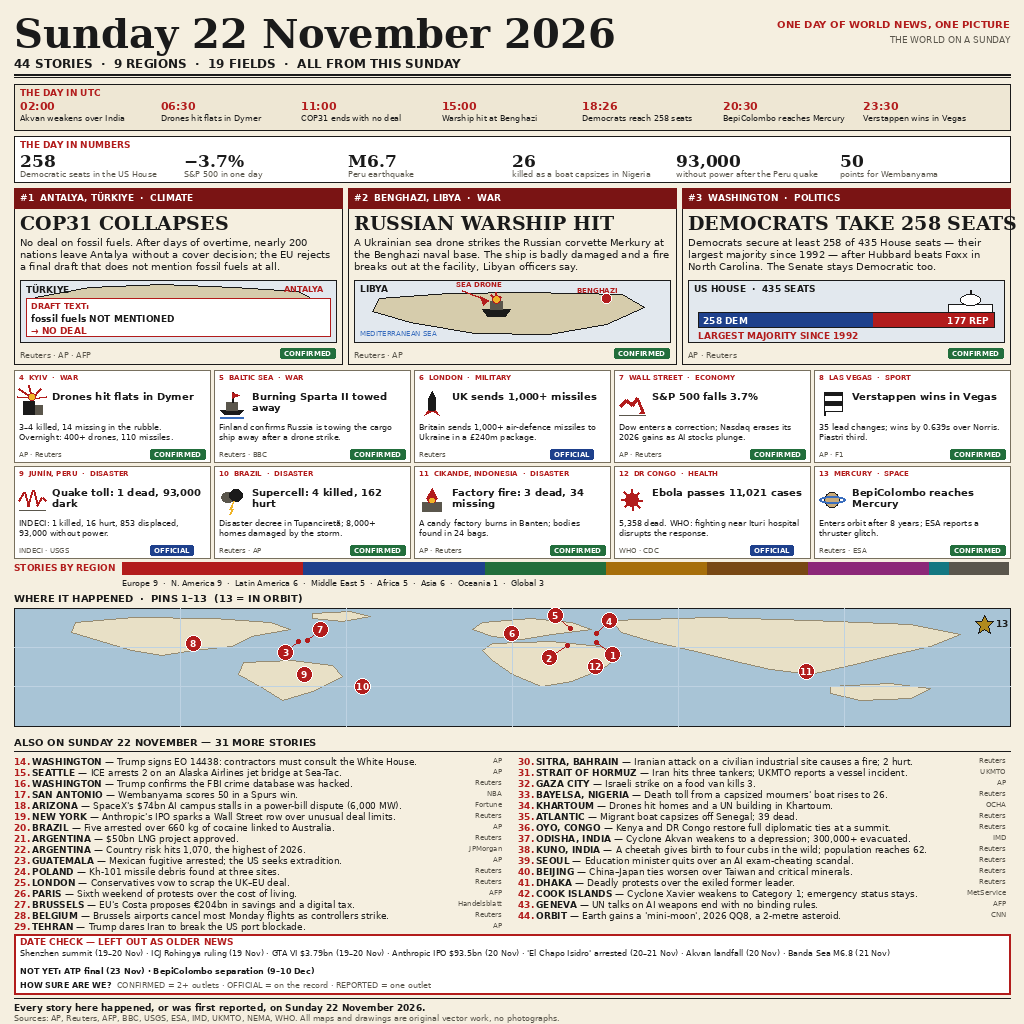
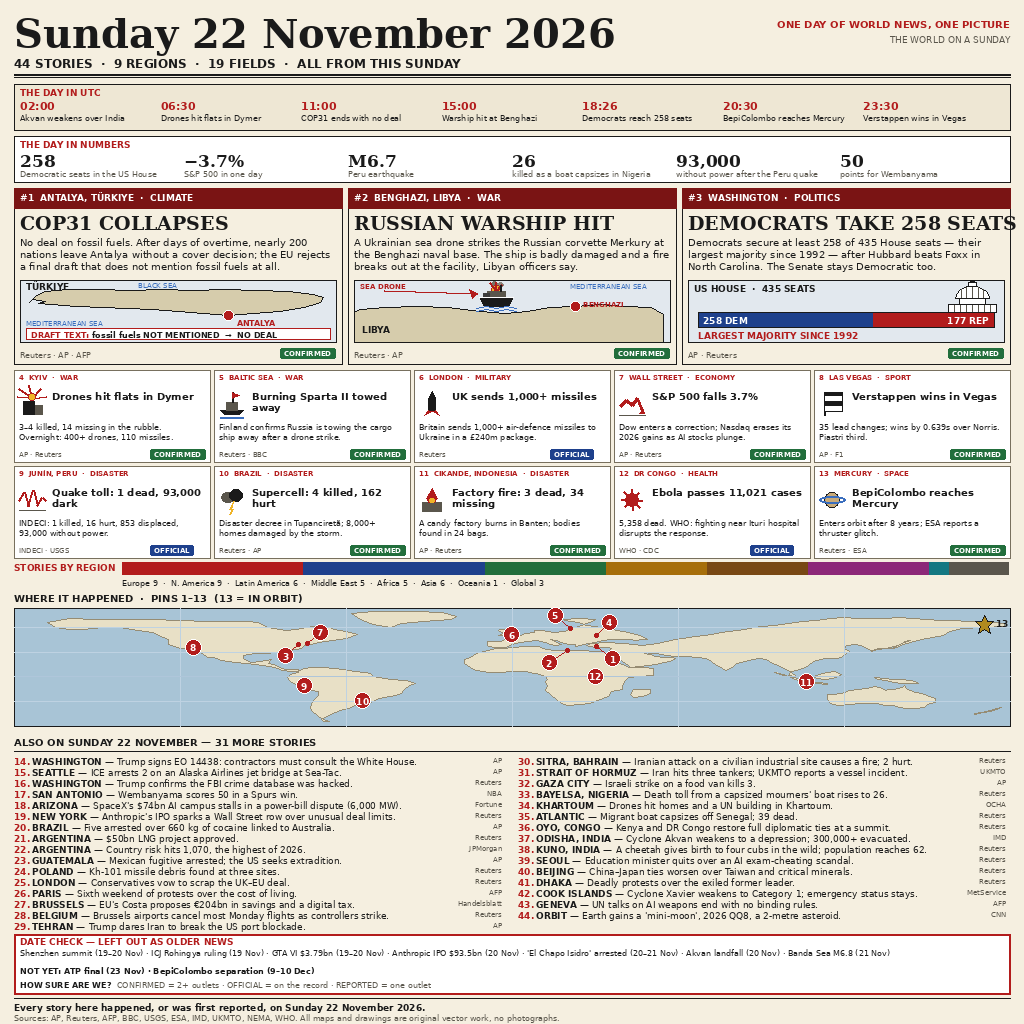
Fix maps + lead illustrations: detailed world map (real coastlines, lat/lon), Turkiye with Black/Med Sea labels + visible Antalya pin + 1-line draft box, Libya with big burning ship offshore + SEA DRONE arrow, bigger detailed Capitol dome

diff --git a/build-image.py b/build-image.py
@@ -304,54 +304,156 @@ def icon(draw, kind, cx, cy, s, col=INK):
 
 
 # ---------------------------------------------------------------- maps
-def latlon_to_xy(lat, lon, x0, y0, w, h):
+# World map: continents as (lon, lat) coastlines, drawn with an
+# equirectangular projection cropped to lat 84..-60 so the strip reads
+# larger. Pins use the same projection, so they land on the land.
+LAT_TOP, LAT_BOT = 84.0, -60.0
+
+
+def world_xy(lat, lon, x0, y0, w, h):
     x = x0 + (lon + 180.0) / 360.0 * w
-    y = y0 + (90.0 - lat) / 180.0 * h
+    y = y0 + (LAT_TOP - lat) / (LAT_TOP - LAT_BOT) * h
     return x, y
 
 
-CONTINENTS = [
-    # North America
-    [(62, 62), (120, 42), (200, 46), (258, 62), (278, 92), (238, 122),
-     (218, 162), (180, 182), (148, 202), (118, 182), (88, 142), (58, 102)],
-    # Greenland
-    [(300, 22), (338, 16), (358, 36), (330, 56), (300, 46)],
-    # South America
-    [(230, 232), (280, 222), (320, 242), (330, 292), (300, 352),
-     (270, 392), (250, 342), (225, 282)],
-    # Europe
-    [(470, 62), (520, 46), (560, 62), (580, 92), (540, 112),
-     (510, 132), (480, 122), (460, 92)],
-    # Africa
-    [(480, 152), (540, 142), (590, 162), (610, 202), (590, 262),
-     (560, 312), (530, 332), (500, 282), (480, 222), (470, 182)],
-    # Asia
-    [(600, 52), (700, 42), (800, 52), (900, 72), (950, 112), (920, 162),
-     (880, 202), (840, 242), (800, 282), (760, 262), (720, 222),
-     (680, 182), (640, 142), (610, 102)],
-    # Australia
-    [(820, 332), (880, 322), (920, 342), (900, 382), (850, 392), (820, 362)],
+# (lon, lat) coastline points, clockwise. Simplified real coastlines —
+# enough points to read as the actual continents at this scale.
+NORTH_AMERICA = [
+    (-168, 66), (-160, 71), (-150, 70), (-140, 70), (-130, 70), (-120, 69),
+    (-110, 68), (-100, 68), (-95, 68), (-92, 66), (-88, 60), (-82, 56),
+    (-78, 58), (-72, 62), (-66, 60), (-64, 58), (-60, 55), (-56, 52),
+    (-60, 47), (-65, 44), (-70, 42), (-73, 40), (-75, 38), (-76, 35),
+    (-80, 32), (-81, 28), (-80, 25), (-82, 28), (-85, 30), (-89, 29),
+    (-93, 29), (-97, 26), (-97, 22), (-94, 18), (-91, 19), (-87, 21),
+    (-88, 16), (-86, 15), (-84, 12), (-82, 9), (-80, 9), (-77, 9),
+    (-77, 7), (-80, 7), (-83, 8), (-86, 12), (-90, 14), (-93, 15),
+    (-96, 16), (-100, 17), (-105, 20), (-108, 23), (-110, 23), (-112, 28),
+    (-114, 31), (-117, 33), (-120, 34), (-122, 37), (-124, 40), (-124, 46),
+    (-127, 49), (-130, 54), (-135, 57), (-142, 60), (-148, 60), (-155, 58),
+    (-160, 58), (-165, 60),
+]
+GREENLAND = [
+    (-44, 60), (-40, 65), (-32, 68), (-22, 70), (-20, 74), (-25, 78),
+    (-35, 80), (-50, 80), (-58, 77), (-56, 72), (-53, 68), (-50, 64),
+]
+SOUTH_AMERICA = [
+    (-77, 7), (-75, 10), (-72, 12), (-68, 11), (-64, 10), (-61, 9),
+    (-57, 6), (-53, 5), (-51, 4), (-50, 0), (-44, -3), (-38, -5),
+    (-35, -8), (-37, -11), (-39, -15), (-40, -20), (-42, -23), (-46, -25),
+    (-48, -27), (-52, -32), (-57, -35), (-58, -38), (-62, -41), (-65, -45),
+    (-67, -49), (-69, -52), (-68, -55), (-66, -55), (-68, -52), (-70, -48),
+    (-72, -42), (-73, -37), (-72, -30), (-70, -23), (-70, -18), (-75, -15),
+    (-77, -12), (-80, -6), (-81, -1), (-80, 3), (-77, 5),
+]
+EUROPE = [
+    (18, 70), (25, 71), (30, 70), (28, 66), (24, 62), (21, 59), (19, 55),
+    (15, 54), (11, 57), (8, 57), (8, 54), (5, 53), (3, 51), (0, 50),
+    (-2, 49), (-2, 47), (-4, 43), (-9, 43), (-9, 38), (-8, 37), (-6, 36),
+    (-2, 36), (0, 39), (3, 42), (6, 43), (9, 44), (12, 42), (14, 40),
+    (16, 38), (18, 40), (16, 42), (14, 45), (16, 44), (18, 42), (19, 41),
+    (21, 40), (23, 39), (23, 37), (25, 38), (26, 40), (28, 41), (30, 42),
+    (33, 44), (36, 45), (39, 46), (41, 46), (43, 45), (45, 44), (47, 45),
+    (49, 46), (48, 48), (46, 51), (42, 54), (38, 57), (34, 59), (30, 61),
+    (27, 63), (24, 66), (21, 68),
+]
+BRITAIN = [
+    (-5, 50), (-3, 53), (-5, 56), (-4, 58), (-2, 58), (0, 57), (0, 53),
+    (1, 51), (-2, 50),
+]
+AFRICA = [
+    (-6, 35), (-9, 32), (-13, 28), (-15, 24), (-17, 21), (-17, 16),
+    (-15, 11), (-13, 8), (-8, 5), (-4, 5), (0, 6), (5, 6), (8, 4),
+    (9, 4), (12, 0), (13, -3), (12, -6), (13, -12), (12, -17), (14, -22),
+    (16, -28), (18, -32), (20, -35), (25, -34), (28, -32), (32, -28),
+    (35, -24), (36, -18), (40, -15), (40, -10), (41, -5), (42, -1),
+    (46, 0), (51, 2), (51, 10), (48, 11), (44, 11), (42, 12), (40, 15),
+    (38, 18), (36, 22), (35, 27), (34, 28), (32, 31), (30, 31), (25, 32),
+    (20, 32), (15, 32), (11, 34), (10, 37), (5, 37), (0, 36), (-3, 35),
+]
+MADAGASCAR = [
+    (44, -16), (47, -15), (50, -16), (50, -20), (47, -24), (44, -25),
+    (43, -21),
+]
+ASIA = [
+    (28, 41), (30, 41), (33, 42), (36, 42), (39, 41), (41, 41), (44, 39),
+    (47, 38), (50, 39), (53, 41), (56, 43), (59, 45), (62, 47), (66, 49),
+    (70, 51), (74, 53), (78, 55), (82, 57), (86, 59), (90, 61), (95, 63),
+    (100, 65), (105, 67), (110, 69), (115, 71), (120, 72), (125, 71),
+    (130, 71), (135, 71), (140, 72), (145, 71), (150, 70), (155, 69),
+    (160, 69), (165, 68), (170, 67), (178, 65), (178, 62), (170, 60),
+    (163, 59), (158, 55), (156, 51), (152, 48), (148, 45), (144, 42),
+    (141, 40), (138, 37), (135, 34), (132, 33), (130, 32), (128, 35),
+    (127, 37), (126, 38), (124, 40), (121, 38), (120, 35), (122, 31),
+    (121, 28), (119, 24), (117, 22), (113, 22), (109, 19), (106, 12),
+    (104, 9), (101, 6), (100, 2), (103, 1), (101, 5), (99, 9), (97, 13),
+    (94, 16), (92, 21), (89, 22), (87, 21), (84, 19), (81, 16), (80, 13),
+    (78, 9), (77, 8), (76, 10), (74, 14), (72, 19), (70, 22), (67, 24),
+    (63, 25), (59, 25), (56, 26), (54, 27), (52, 28), (50, 29), (48, 30),
+    (48, 29), (50, 27), (52, 25), (55, 24), (58, 23), (59, 22), (57, 19),
+    (55, 17), (52, 15), (49, 14), (46, 13), (43, 12), (42, 14), (40, 19),
+    (39, 23), (38, 27), (36, 29), (35, 31), (36, 34), (35, 36), (33, 36),
+    (30, 36), (28, 37), (27, 38), (28, 40),
+]
+JAPAN = [
+    (130, 31), (132, 33), (134, 34), (136, 34), (138, 35), (140, 37),
+    (141, 39), (141, 41), (142, 43), (144, 44), (142, 42), (140, 39),
+    (139, 37), (137, 35), (135, 34), (133, 34), (131, 33),
+]
+SUMATRA = [
+    (95, 5), (98, 3), (100, 1), (102, -1), (104, -3), (106, -6),
+    (104, -5), (102, -3), (100, 0), (98, 2),
+]
+JAVA = [
+    (105, -6), (108, -7), (111, -7), (114, -8), (114, -9), (110, -8),
+    (107, -7),
+]
+BORNEO = [
+    (109, 1), (111, 3), (114, 5), (117, 6), (119, 3), (118, 0), (116, -2),
+    (113, -3), (110, -2),
+]
+NEW_GUINEA = [
+    (131, -1), (135, -2), (138, -3), (141, -3), (144, -5), (146, -6),
+    (147, -8), (144, -8), (141, -8), (138, -7), (135, -5), (132, -3),
+]
+AUSTRALIA = [
+    (114, -22), (114, -28), (115, -33), (118, -35), (122, -34), (126, -32),
+    (129, -32), (132, -32), (135, -35), (138, -35), (140, -38), (143, -39),
+    (146, -39), (149, -37), (150, -34), (153, -31), (153, -27), (151, -24),
+    (148, -20), (146, -19), (143, -16), (142, -11), (141, -13), (138, -15),
+    (136, -15), (135, -17), (133, -13), (131, -12), (128, -14), (125, -15),
+    (122, -17), (119, -20), (116, -21),
+]
+NEW_ZEALAND = [
+    (167, -45), (170, -43), (173, -41), (175, -39), (177, -38), (175, -40),
+    (173, -42), (170, -44), (167, -46),
+]
+WORLD_POLYS = [
+    NORTH_AMERICA, GREENLAND, SOUTH_AMERICA, EUROPE, BRITAIN, AFRICA,
+    MADAGASCAR, ASIA, JAPAN, SUMATRA, JAVA, BORNEO, NEW_GUINEA, AUSTRALIA,
+    NEW_ZEALAND,
 ]
 
 
 def draw_world_map(draw, x0, y0, w, h):
     draw.rectangle([x0, y0, x0 + w, y0 + h], fill=SEA, outline=INK, width=1)
-    for poly in CONTINENTS:
-        pts = [(x0 + px / 1000.0 * w, y0 + py / 500.0 * h) for px, py in poly]
+    for poly in WORLD_POLYS:
+        pts = [world_xy(lat, lon, x0, y0, w, h) for lon, lat in poly]
         draw.polygon(pts, fill=LAND, outline=(150, 140, 115))
-    # graticule
-    for gx in range(1, 6):
-        x = x0 + gx * w / 6.0
+    # graticule: every 60 deg lon, lat 60/30/-30; equator slightly stronger
+    for lon in (-120, -60, 0, 60, 120):
+        x = x0 + (lon + 180.0) / 360.0 * w
         draw.line([(x, y0), (x, y0 + h)], fill=(190, 210, 226), width=1)
-    for gy in range(1, 3):
-        y = y0 + gy * h / 3.0
-        draw.line([(x0, y), (x0 + w, y)], fill=(190, 210, 226), width=1)
+    for lat in (60, 30, -30):
+        _, yy = world_xy(lat, 0, x0, y0, w, h)
+        draw.line([(x0, yy), (x0 + w, yy)], fill=(190, 210, 226), width=1)
+    _, eq = world_xy(0, 0, x0, y0, w, h)
+    draw.line([(x0, eq), (x0 + w, eq)], fill=(175, 198, 218), width=1)
     # pins 1-12
     f = font(SANSB, 9)
     for num, (lat, lon) in sorted(PINS.items()):
         if lat is None:
             continue
-        px, py = latlon_to_xy(lat, lon, x0, y0, w, h)
+        px, py = world_xy(lat, lon, x0, y0, w, h)
         dx, dy = PIN_OFFSETS.get(num, (0, 0))
         if (dx, dy) != (0, 0):
             draw.line([(px, py), (px + dx, py + dy)], fill=RED, width=1)
@@ -371,54 +473,80 @@ def draw_world_map(draw, x0, y0, w, h):
 
 
 def draw_turkiye(draw, x0, y0, w, h):
-    """Stylised Türkiye with Antalya pin and the draft-text box."""
+    """Türkiye with a readable coastline: Black Sea north, Mediterranean
+    south with the Antalya bay, Aegean notches west. The draft-text box is
+    a single line at the bottom so the map (and the Antalya pin) stay
+    visible. Everything stays inside (x0, y0, w, h)."""
     draw.rectangle([x0, y0, x0 + w, y0 + h], fill=(226, 232, 238), outline=INK, width=1)
-    poly = [(0.05, 0.28), (0.22, 0.12), (0.45, 0.08), (0.68, 0.12), (0.88, 0.18),
-            (0.95, 0.38), (0.86, 0.55), (0.68, 0.68), (0.48, 0.72), (0.28, 0.66),
-            (0.12, 0.58), (0.04, 0.42)]
+    poly = [(0.03, 0.36), (0.05, 0.26), (0.08, 0.19), (0.15, 0.16),
+            (0.25, 0.15), (0.35, 0.17), (0.45, 0.15), (0.55, 0.17),
+            (0.65, 0.15), (0.75, 0.17), (0.85, 0.19), (0.93, 0.23),
+            (0.96, 0.29), (0.95, 0.36), (0.90, 0.44), (0.82, 0.50),
+            (0.74, 0.54), (0.66, 0.58), (0.58, 0.54), (0.50, 0.50),
+            (0.42, 0.48), (0.34, 0.46), (0.26, 0.44), (0.18, 0.42),
+            (0.10, 0.40), (0.06, 0.38), (0.08, 0.34), (0.04, 0.32)]
     pts = [(x0 + px * w, y0 + py * h) for px, py in poly]
     draw.polygon(pts, fill=LAND2, outline=INK)
-    draw.text((x0 + 6, y0 + 4), "TÜRKIYE", font=font(SANSB, 9), fill=INK)
-    draw.text((x0 + w - 52, y0 + 4), "ANTALYA", font=font(SANSB, 8), fill=RED)
-    # Antalya pin on the south coast
-    ax, ay = x0 + 0.38 * w, y0 + 0.66 * h
-    draw.ellipse([ax - 6, ay - 6, ax + 6, ay + 6], fill=RED, outline=(255, 255, 255), width=1)
-    # sea label
-    draw.text((x0 + 8, y0 + h - 16), "MEDITERRANEAN SEA", font=font(SANS, 7), fill=BLUE2)
-    # draft-text box
-    bx, by = x0 + 6, y0 + h - 44
-    draw.rectangle([bx, by, x0 + w - 6, y0 + h - 6], fill=(255, 255, 255), outline=RED, width=1)
-    draw.text((bx + 5, by + 3), "DRAFT TEXT:", font=font(SANSB, 8), fill=RED)
-    draw.text((bx + 5, by + 15), "fossil fuels NOT MENTIONED", font=font(SANSB, 9), fill=INK)
-    draw.text((bx + 5, by + 27), "→ NO DEAL", font=font(SANSB, 9), fill=RED)
+    draw.text((x0 + 6, y0 + 1), "TÜRKIYE", font=font(SANSB, 9), fill=INK)
+    draw.text((x0 + 118, y0 + 1), "BLACK SEA", font=font(SANS, 7), fill=BLUE2)
+    # Antalya pin on the south coast, at the bay dip
+    ax, ay = x0 + 0.66 * w, y0 + 0.58 * h
+    draw.ellipse([ax - 5, ay - 5, ax + 5, ay + 5], fill=RED, outline=(255, 255, 255), width=1)
+    draw.text((ax + 8, y0 + 38), "ANTALYA", font=font(SANSB, 8), fill=RED)
+    draw.text((x0 + 6, y0 + 39), "MEDITERRANEAN SEA", font=font(SANS, 7), fill=BLUE2)
+    # draft-text box: one line, bottom
+    bx, by = x0 + 6, y0 + h - 14
+    draw.rectangle([bx, by, x0 + w - 6, y0 + h - 3], fill=(255, 255, 255), outline=RED, width=1)
+    draw.text((bx + 5, by + 2), "DRAFT TEXT: ", font=font(SANSB, 8), fill=RED)
+    tx = bx + 5 + draw.textlength("DRAFT TEXT: ", font=font(SANSB, 8))
+    draw.text((tx, by + 2), "fossil fuels NOT MENTIONED  →  NO DEAL",
+              font=font(SANSB, 8), fill=INK)
 
 
 def draw_libya(draw, x0, y0, w, h):
-    """Stylised Libya / Mediterranean with burning ship and arrow.
-    Everything stays inside the box (x0, y0, w, h)."""
+    """Libya / Mediterranean: sea on top, land below with the Gulf of
+    Sidra dip, a BIG burning warship offshore in the sea, red SEA DRONE
+    arrow, Benghazi pin on the north-east coast. Everything stays inside
+    the box (x0, y0, w, h)."""
     draw.rectangle([x0, y0, x0 + w, y0 + h], fill=(226, 232, 238), outline=INK, width=1)
-    poly = [(0.08, 0.30), (0.30, 0.22), (0.55, 0.20), (0.85, 0.24), (0.92, 0.45),
-            (0.80, 0.72), (0.62, 0.88), (0.38, 0.86), (0.18, 0.68), (0.06, 0.50)]
+    # land: north coast with the Sidra gulf dip, extends past the bottom
+    poly = [(0.02, 0.48), (0.10, 0.44), (0.20, 0.42), (0.30, 0.44),
+            (0.40, 0.50), (0.48, 0.54), (0.55, 0.50), (0.62, 0.45),
+            (0.70, 0.42), (0.78, 0.40), (0.86, 0.42), (0.94, 0.44),
+            (0.98, 0.55), (0.98, 1.0), (0.0, 1.0), (0.0, 0.52)]
     pts = [(x0 + px * w, y0 + py * h) for px, py in poly]
     draw.polygon(pts, fill=LAND2, outline=INK)
-    draw.text((x0 + 6, y0 + 3), "LIBYA", font=font(SANSB, 9), fill=INK)
-    draw.text((x0 + 6, y0 + h - 13), "MEDITERRANEAN SEA", font=font(SANS, 7), fill=BLUE2)
-    # Benghazi pin, north-east coast
-    bx, by = x0 + 0.80 * w, y0 + 0.30 * h
+    draw.text((x0 + 6, y0 + 2), "SEA DRONE", font=font(SANSB, 7), fill=RED)
+    draw.text((x0 + w - 100, y0 + 2), "MEDITERRANEAN SEA", font=font(SANS, 7), fill=BLUE2)
+    draw.text((x0 + 8, y0 + 44), "LIBYA", font=font(SANSB, 9), fill=INK)
+    # Benghazi pin on the north-east coast
+    bx, by = x0 + 0.70 * w, y0 + 0.42 * h
     draw.ellipse([bx - 5, by - 5, bx + 5, by + 5], fill=RED, outline=(255, 255, 255), width=1)
-    draw.text((bx - 30, by - 13), "BENGHAZI", font=font(SANSB, 7), fill=RED)
-    # burning ship offshore, upper middle of the box
-    sx, sy = x0 + 0.45 * w, y0 + 0.42 * h
-    draw.polygon([(sx - 14, sy + 3), (sx + 14, sy + 3), (sx + 9, sy + 10), (sx - 9, sy + 10)],
-                 fill=INK)
-    draw.rectangle([sx - 6, sy - 5, sx + 6, sy + 3], fill=GREY)
-    for dx, dy in [(-5, -11), (0, -14), (5, -10)]:
-        draw.line([(sx, sy - 5), (sx + dx, sy + dy)], fill=RED, width=2)
-    draw.ellipse([sx - 4, sy - 11, sx + 4, sy - 3], fill=(240, 180, 40), outline=RED)
-    # red arrow: drone path to the ship, inside the box
-    draw.line([(sx - 34, sy - 16), (sx - 8, sy - 6)], fill=RED, width=2)
-    draw.polygon([(sx - 8, sy - 6), (sx - 16, sy - 10), (sx - 13, sy - 1)], fill=RED)
-    draw.text((sx - 40, sy - 26), "SEA DRONE", font=font(SANSB, 7), fill=RED)
+    draw.text((bx + 8, y0 + 20), "BENGHAZI", font=font(SANSB, 7), fill=RED)
+    # BIG burning warship offshore, in the sea above the coast
+    sx, sy = x0 + 0.45 * w, y0 + 20
+    # smoke puffs above the fire
+    draw.ellipse([sx - 5, sy - 19, sx + 1, sy - 14], fill=(120, 115, 105))
+    draw.ellipse([sx + 1, sy - 18, sx + 7, sy - 13], fill=(140, 135, 125))
+    # fire: orange core + red flame lines
+    draw.ellipse([sx - 5, sy - 15, sx + 5, sy - 7], fill=(240, 180, 40), outline=RED)
+    for dx, dy in [(-6, -17), (0, -18), (6, -16)]:
+        draw.line([(sx, sy - 9), (sx + dx, sy + dy)], fill=RED, width=2)
+    # superstructure + funnel + mast
+    draw.rectangle([sx - 9, sy - 9, sx + 9, sy - 3], fill=GREY)
+    draw.rectangle([sx - 13, sy - 7, sx - 7, sy - 3], fill=(60, 60, 60))
+    draw.line([(sx + 5, sy - 9), (sx + 5, sy - 15)], fill=INK, width=2)
+    # hull: dark, wider than tall
+    draw.polygon([(sx - 17, sy - 3), (sx + 17, sy - 3), (sx + 12, sy + 6),
+                  (sx - 12, sy + 6)], fill=INK)
+    draw.line([(sx - 17, sy - 3), (sx + 17, sy - 3)], fill=(255, 255, 255), width=1)
+    # waves under the hull
+    for wy in (sy + 8, sy + 11):
+        draw.line([(sx - 20, wy), (sx - 10, wy - 2), (sx, wy), (sx + 10, wy - 2),
+                   (sx + 20, wy)], fill=BLUE2, width=1)
+    # red arrow: drone path to the ship, from the upper left
+    draw.line([(x0 + 30, y0 + 10), (sx - 19, sy - 7)], fill=RED, width=2)
+    draw.polygon([(sx - 19, sy - 7), (sx - 27, sy - 11), (sx - 24, sy - 2)], fill=RED)
 
 
 def draw_house_chart(draw, x0, y0, w, h):
@@ -426,11 +554,33 @@ def draw_house_chart(draw, x0, y0, w, h):
     Everything stays inside the box (x0, y0, w, h)."""
     draw.rectangle([x0, y0, x0 + w, y0 + h], fill=(226, 232, 238), outline=INK, width=1)
     draw.text((x0 + 6, y0 + 3), "US HOUSE  ·  435 SEATS", font=font(SANSB, 9), fill=INK)
-    # Capitol dome, small, top right
-    cx, cy = x0 + w - 34, y0 + 24
-    draw.rectangle([cx - 22, cy, cx + 22, cy + 9], fill=(255, 255, 255), outline=INK)
-    draw.ellipse([cx - 10, cy - 10, cx + 10, cy + 1], fill=(255, 255, 255), outline=INK)
-    draw.line([(cx, cy - 14), (cx, cy - 10)], fill=INK, width=2)
+    # Capitol dome, BIG and detailed, top right: columned base, drum,
+    # ribbed dome, lantern + finial. Base sits just above the bar
+    # (bar top = y0+32).
+    cx = x0 + w - 32
+    base_top = y0 + 24
+    # dome: smooth half-ellipse polygon (offsets from cx, base_top)
+    dome = [(-17, -6), (-16, -10), (-13, -14), (-9, -16), (-5, -18),
+            (0, -18), (5, -18), (9, -16), (13, -14), (16, -10), (17, -6)]
+    draw.polygon([(cx + dx, base_top + dy) for dx, dy in dome],
+                 fill=(255, 255, 255), outline=INK)
+    # ribs on the dome
+    for dx, top in [(-11, -15), (-6, -17), (0, -18), (6, -17), (11, -15)]:
+        draw.line([(cx + dx, base_top + top), (cx + dx, base_top - 7)],
+                  fill=GREY, width=1)
+    # lantern + finial
+    draw.rectangle([cx - 4, base_top - 22, cx + 4, base_top - 18],
+                   fill=(255, 255, 255), outline=INK)
+    draw.ellipse([cx - 2, base_top - 24, cx + 2, base_top - 22], fill=INK)
+    # drum
+    draw.rectangle([cx - 13, base_top - 6, cx + 13, base_top],
+                   fill=(255, 255, 255), outline=INK)
+    # base with columns
+    draw.rectangle([cx - 24, base_top, cx + 24, base_top + 8],
+                   fill=(255, 255, 255), outline=INK)
+    for dx in (-18, -12, -6, 0, 6, 12, 18):
+        draw.line([(cx + dx, base_top + 1), (cx + dx, base_top + 7)],
+                  fill=GREY, width=1)
     # stacked bar
     bx, by, bw, bh = x0 + 10, y0 + 32, w - 20, 15
     dem_w = bw * 258 / 435
